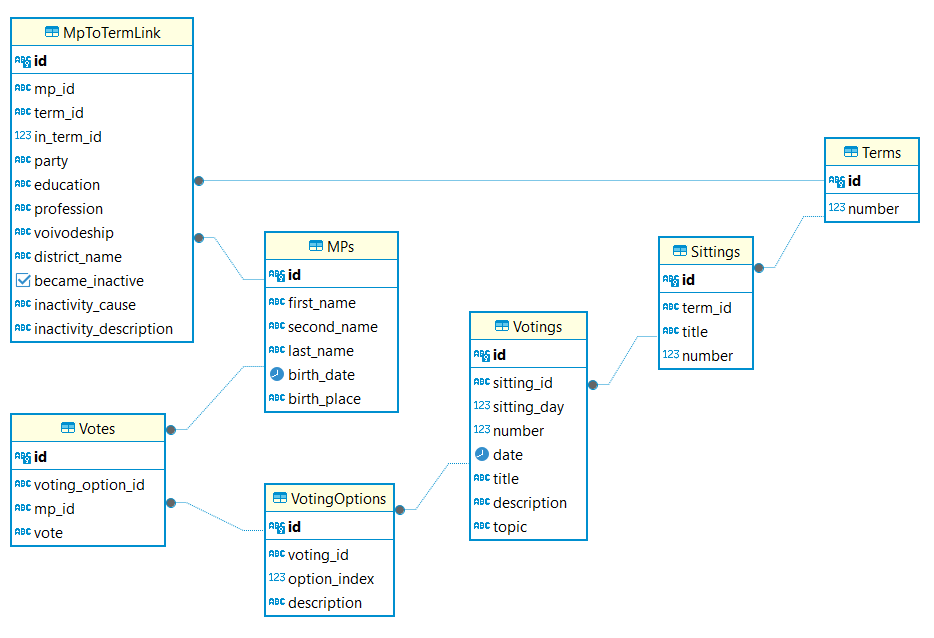
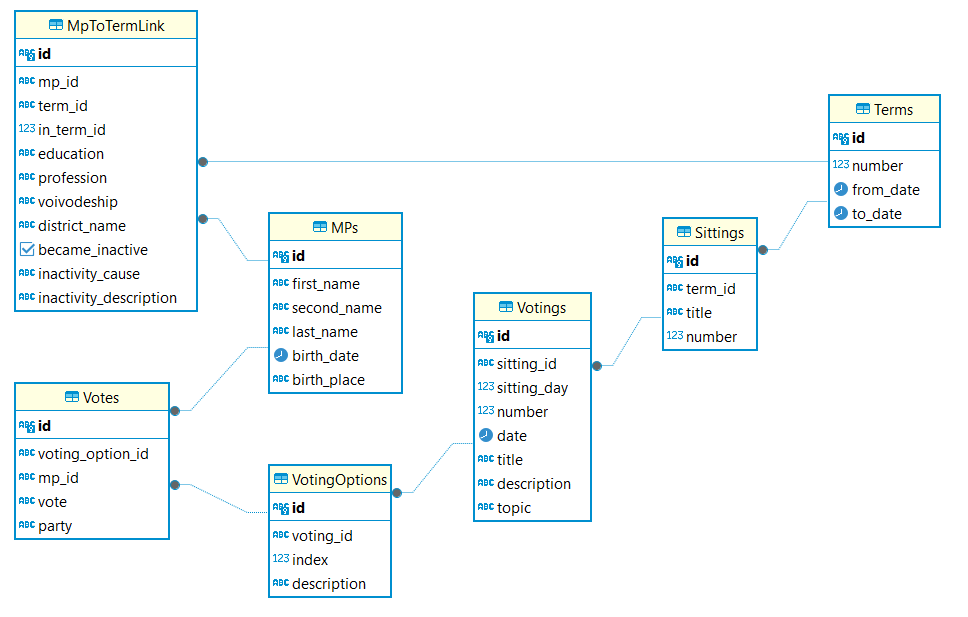
Improve data model (#15)

diff --git a/src/sejm_scraper/process.py b/src/sejm_scraper/process.py
@@ -12,6 +12,8 @@ def process_term(
     db_item = database.Terms(
         id=term_id,
         number=term.number,
+        from_date=term.from_date,
+        to_date=term.to_date,
     )
     with SessionMaker() as db:
         db.merge(db_item)
@@ -69,13 +71,13 @@ def process_voting_option(
     voting: schemas.VotingSchema,
 ) -> None:
     logger.info(
-        f"Processing voting option {voting_option.option_index} "
+        f"Processing voting option {voting_option.index} "
         f"in voting {voting.number} "
         f"in sitting {sitting.number} in {term.number} term"
     )
     voting_id = utils.get_voting_nk(voting=voting, term=term, sitting=sitting)
     voting_option_id = utils.get_voting_option_nk(
-        voting_option_index=voting_option.option_index,
+        voting_option_index=voting_option.index,
         term=term,
         sitting=sitting,
         voting=voting,
@@ -83,7 +85,7 @@ def process_voting_option(
     db_item = database.VotingOptions(
         id=voting_option_id,
         voting_id=voting_id,
-        option_index=voting_option.option_index,
+        index=voting_option.index,
         description=voting_option.description,
     )
     with SessionMaker() as db:
@@ -97,9 +99,6 @@ def process_vote(
     voting: schemas.VotingSchema,
     vote: schemas.MpVoteSchema,
 ) -> None:
-    if vote.vote == "VOTE_VALID":
-        raise TypeError
-
     term_id = utils.get_term_nk(term)
 
     with SessionMaker() as db:
@@ -119,6 +118,8 @@ def process_vote(
 
         inner_votes = vote.votes
         if inner_votes is None:
+            if vote.vote == "VOTE_VALID":
+                raise TypeError
             inner_votes = {schemas.OptionIndex(1): vote.vote}
 
         for inner_vote_index, inner_vote in inner_votes.items():
@@ -148,6 +149,7 @@ def process_vote(
                 voting_option_id=voting_option_id,
                 mp_id=mp_id,
                 vote=inner_vote,
+                party=vote.party,
             )
             db.merge(db_item)
             db.commit()
@@ -185,7 +187,6 @@ def process_mp_to_term_link(
         mp_id=mp_id,
         term_id=term_id,
         in_term_id=mp.in_term_id,
-        party=mp.party,
         education=mp.education,
         profession=mp.profession,
         voivodeship=mp.voivodeship,

diff --git a/src/sejm_scraper/schemas.py b/src/sejm_scraper/schemas.py
@@ -7,6 +7,8 @@ from pydantic import BaseModel, Field
 
 class TermSchema(BaseModel):
     number: int = Field(validation_alias="num")
+    from_date: date = Field(validation_alias="from")
+    to_date: Union[date, None] = Field(default=None, validation_alias="to")
 
 
 class SittingSchema(BaseModel):
@@ -18,7 +20,7 @@ OptionIndex = NewType("OptionIndex", int)
 
 
 class VotingOptionSchema(BaseModel):
-    option_index: OptionIndex = Field(validation_alias="optionIndex")
+    index: OptionIndex = Field(validation_alias="optionIndex")
     description: Union[str, None] = Field(default=None)
 
 
@@ -48,6 +50,7 @@ VOTE_VALID = Literal["VOTE_VALID"]  # vote value when multiple options are prese
 
 class MpVoteSchema(BaseModel):
     mp_term_id: int = Field(validation_alias="MP")
+    party: Union[str, None] = Field(default=None, validation_alias="club")
     votes: Union[dict[OptionIndex, Vote], None] = Field(default=None, validation_alias="listVotes")
     vote: Union[Vote, VOTE_VALID]
 
@@ -63,7 +66,6 @@ class MpSchema(BaseModel):
     last_name: str = Field(validation_alias="lastName")
     birth_date: date = Field(validation_alias="birthDate")
     birth_place: Union[str, None] = Field(default=None, validation_alias="birthLocation")
-    party: Union[str, None] = Field(default=None, validation_alias="club")
     education: Union[str, None] = Field(default=None, validation_alias="educationLevel")
     profession: Union[str, None] = Field(default=None)
     voivodeship: Union[str, None] = Field(default=None)

diff --git a/src/sejm_scraper/database.py b/src/sejm_scraper/database.py
@@ -26,6 +26,8 @@ class Terms(Base):  # type: ignore
     id = Column(CHAR(64), primary_key=True)
 
     number = Column(Integer, nullable=False)
+    from_date = Column(Date, nullable=False)
+    to_date = Column(Date, nullable=True)
 
     sittings = relationship("Sittings", back_populates="term")
     mp_to_term_link = relationship("MpToTermLink", back_populates="term")
@@ -67,7 +69,7 @@ class VotingOptions(Base):  # type: ignore
     id = Column(CHAR(64), primary_key=True)
     voting_id = Column(CHAR(64), ForeignKey("Votings.id"), nullable=False)
 
-    option_index = Column(Integer, nullable=False)
+    index = Column(Integer, nullable=False)
     description = Column(String, nullable=True)
 
     voting = relationship("Votings", back_populates="voting_options")
@@ -82,6 +84,7 @@ class Votes(Base):  # type: ignore
     mp_id = Column(CHAR(64), ForeignKey("MPs.id"), nullable=False)
 
     vote = Column(String, nullable=False)
+    party = Column(String, nullable=True)
 
     voting_option = relationship("VotingOptions", back_populates="votes")
     mp = relationship("MPs", back_populates="votes")
@@ -110,7 +113,6 @@ class MpToTermLink(Base):  # type: ignore
     term_id = Column(CHAR(64), ForeignKey("Terms.id"), nullable=False)
 
     in_term_id = Column(Integer, nullable=False)
-    party = Column(String, nullable=True)
     education = Column(String, nullable=True)
     profession = Column(String, nullable=True)
     voivodeship = Column(String, nullable=True)

diff --git a/README.md b/README.md
@@ -164,7 +164,7 @@ This project's scope is constrained by the data availability from the Sejm API:
 
 1. Absence of MP data for term 2.
 2. Limited to only term and MP data for terms 3 through 7.
-3. Absence of exact dates of becoming inactive or active for MPs. 
+3. Absence of exact dates of becoming active or inactive for MPs as well as changing the party.
 
 To address the first two gaps, future development efforts should aim to source the missing data directly from the Sejm's official website. The data is not exposed directly on the webpage, but can be obtained by using the following URL pattern:
 
